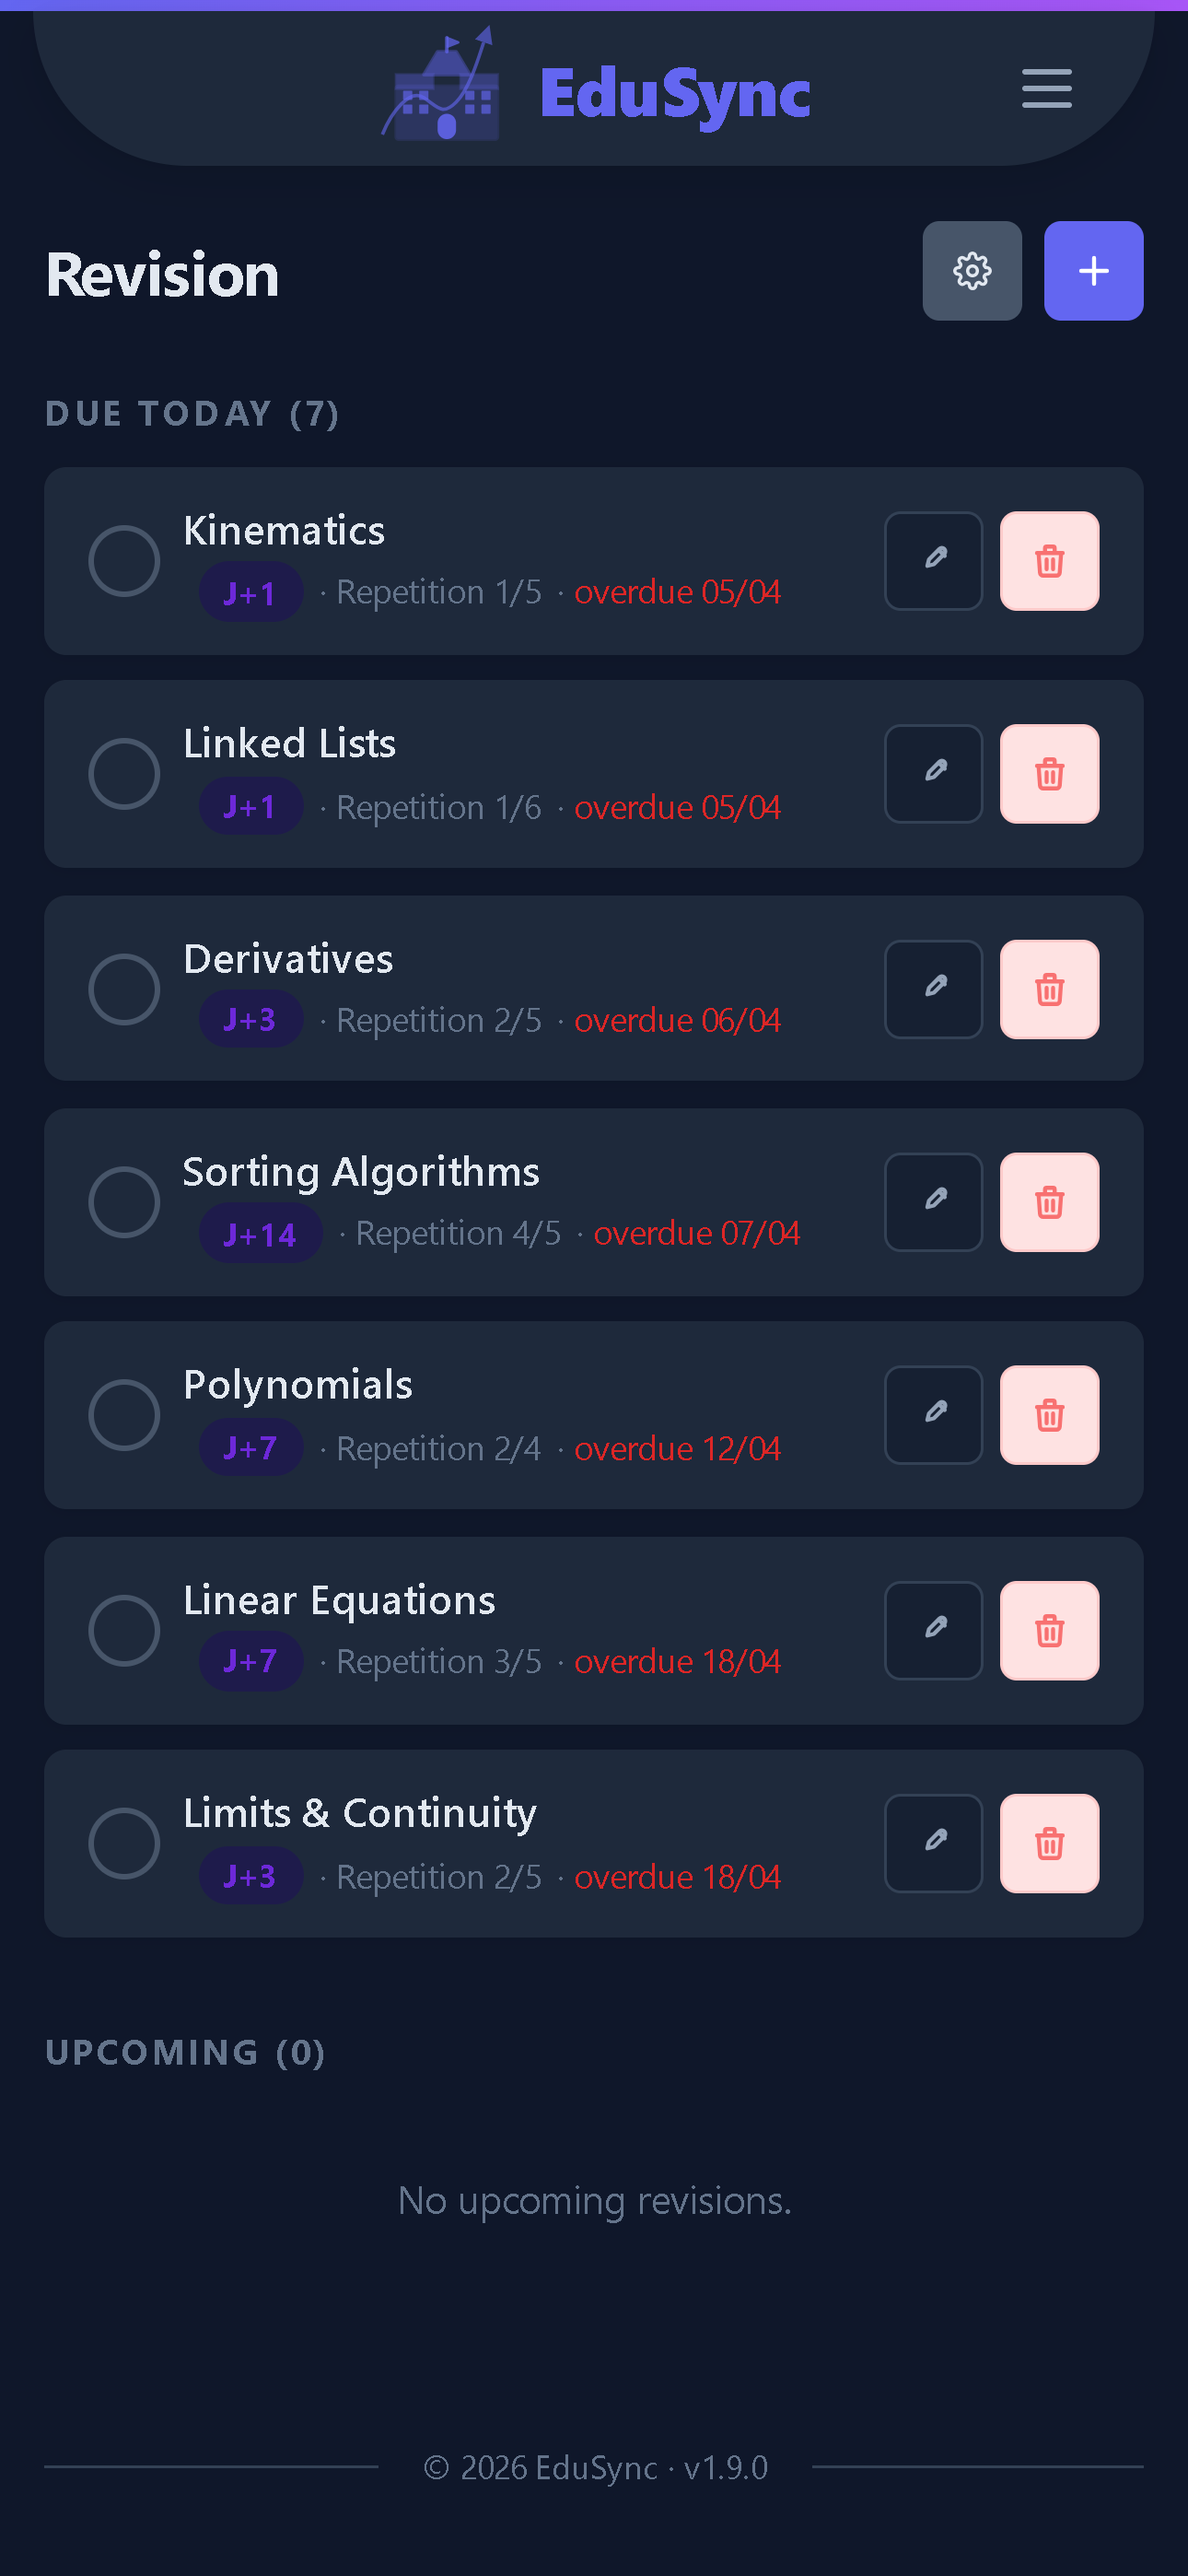
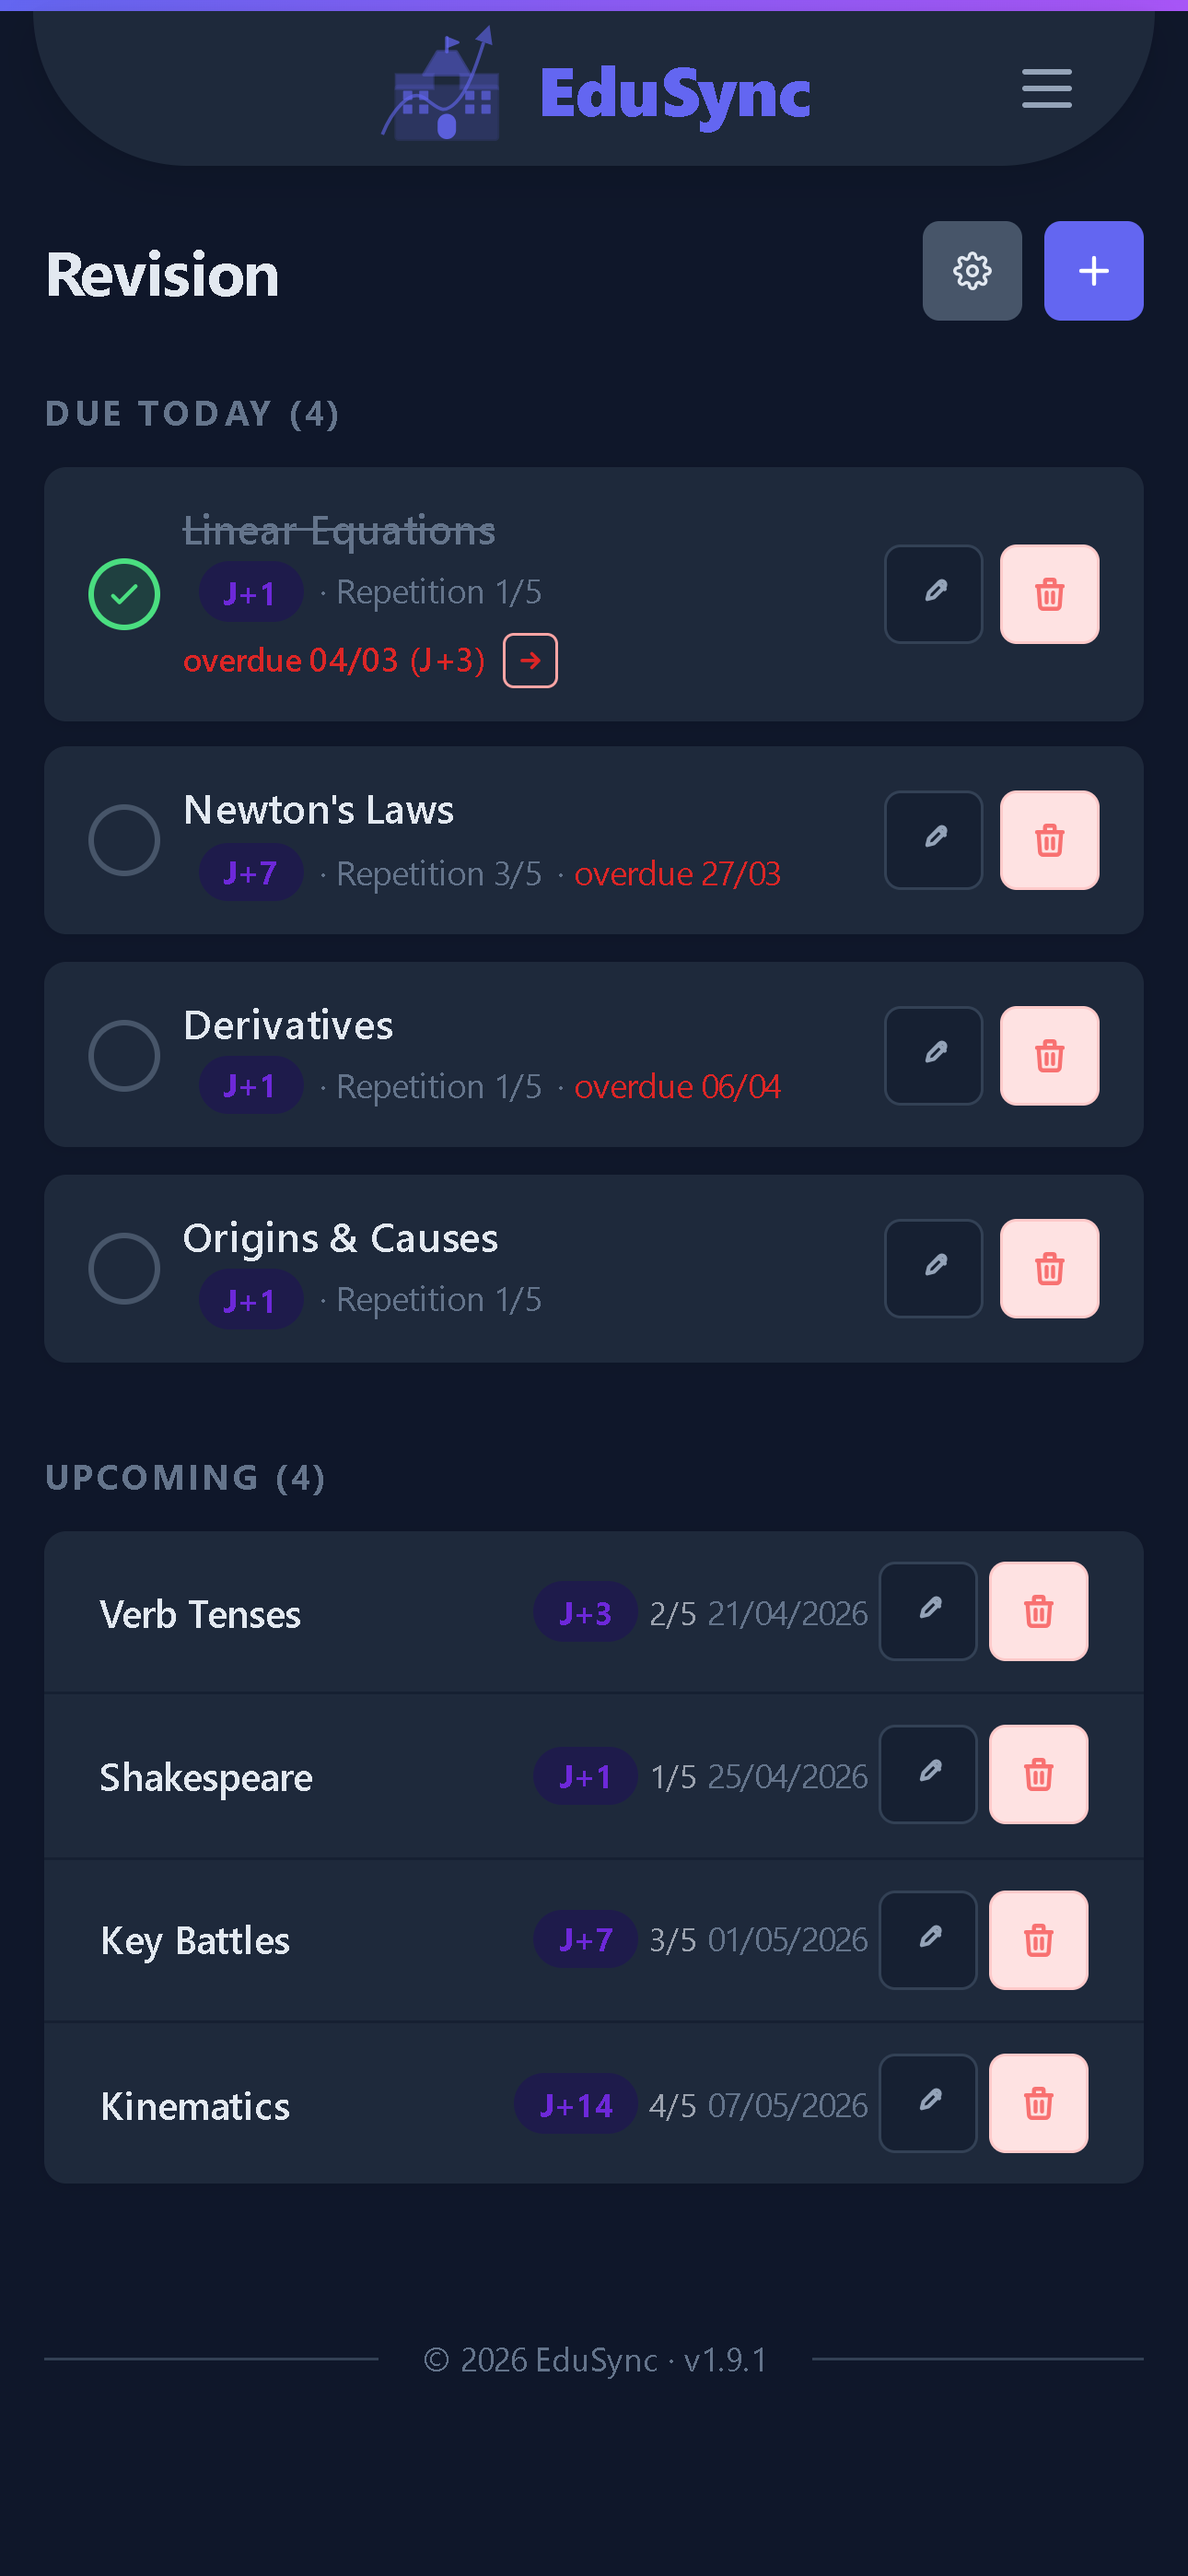
fix(revision): fix overdue tracking and add multi-step same-day advance
Fix two overdue bugs and add same-day multi-step advancement:

- Next revision dates now computed from start_date (absolute intervals)
  instead of CURDATE() — overdue items stay overdue after validation
  and subsequent steps are also correctly flagged as overdue
- Uncheck now restores the original due date (start_date + interval)
  instead of resetting to today
- markDone clears reviewed_today so the advanced step appears as a
  fresh unchecked item
- Add "→" button on reviewed cards when the next step is also overdue,
  allowing same-day multi-step advancement without losing undo on the
  current step

diff --git a/src/Views/revision/index.php b/src/Views/revision/index.php
@@ -5,6 +5,7 @@ $iconDel       = '<svg xmlns="http://www.w3.org/2000/svg" width="14" height="14"
 $iconEdit      = '<svg xmlns="http://www.w3.org/2000/svg" width="14" height="14" fill="none" viewBox="0 0 24 24" stroke="currentColor" stroke-width="2.5"><path stroke-linecap="round" stroke-linejoin="round" d="M15.232 5.232l3.536 3.536M9 11l6.5-6.5a2.121 2.121 0 013 3L12 14l-4 1 1-4z"/></svg>';
 $iconCheckFill = '<svg xmlns="http://www.w3.org/2000/svg" width="14" height="14" fill="none" viewBox="0 0 24 24" stroke="currentColor" stroke-width="2.5"><path stroke-linecap="round" stroke-linejoin="round" d="M5 13l4 4L19 7"/></svg>';
 $iconClose     = '<svg xmlns="http://www.w3.org/2000/svg" width="13" height="13" fill="none" viewBox="0 0 24 24" stroke="currentColor" stroke-width="2.5"><path stroke-linecap="round" stroke-linejoin="round" d="M6 18L18 6M6 6l12 12"/></svg>';
+$iconArrow     = '<svg xmlns="http://www.w3.org/2000/svg" width="12" height="12" fill="none" viewBox="0 0 24 24" stroke="currentColor" stroke-width="2.5"><path stroke-linecap="round" stroke-linejoin="round" d="M13 7l5 5-5 5M6 12h12"/></svg>';
 $iconChapter   = '<svg xmlns="http://www.w3.org/2000/svg" width="12" height="12" fill="none" viewBox="0 0 24 24" stroke="currentColor" stroke-width="2"><path stroke-linecap="round" stroke-linejoin="round" d="M12 6.253v13m0-13C10.832 5.477 9.246 5 7.5 5S4.168 5.477 3 6.253v13C4.168 18.477 5.754 18 7.5 18s3.332.477 4.5 1.253m0-13C13.168 5.477 14.754 5 16.5 5c1.747 0 3.332.477 4.5 1.253v13C19.832 18.477 18.247 18 16.5 18c-1.746 0-3.332.477-4.5 1.253"/></svg>';
 $iconDocument  = '<svg xmlns="http://www.w3.org/2000/svg" width="12" height="12" fill="none" viewBox="0 0 24 24" stroke="currentColor" stroke-width="2"><path stroke-linecap="round" stroke-linejoin="round" d="M9 12h6m-6 4h6m2 5H7a2 2 0 01-2-2V5a2 2 0 012-2h5.586a1 1 0 01.707.293l5.414 5.414a1 1 0 01.293.707V19a2 2 0 01-2 2z"/></svg>';
 
@@ -37,6 +38,8 @@ $presetsJson   = json_encode($presets);
     .badge-interval { background: var(--purple-tint-2); color: #6d28d9; }
     .badge-type { background: var(--bg-subtle); color: var(--text-muted); }
 
+    .btn-advance { display: inline-flex; align-items: center; justify-content: center; width: 20px; height: 20px; border-radius: 4px; border: 1px solid #fca5a5; background: transparent; color: #dc2626; cursor: pointer; vertical-align: middle; padding: 0; flex-shrink: 0; }
+    .btn-advance:hover { background: #fee2e2; }
     .upcoming-list { background: var(--surface); border-radius: 8px; box-shadow: 0 1px 6px rgba(0,0,0,.07); overflow: hidden; }
     .upcoming-row { display: flex; align-items: center; gap: .75rem; padding: .7rem 1.25rem; border-bottom: 1px solid var(--bg-subtle); font-size: .875rem; }
     .upcoming-row:last-child { border-bottom: none; }
@@ -185,8 +188,16 @@ $presetsJson   = json_encode($presets);
                         <?php endif; ?>
                     </div>
                     <?php if ($isReviewed && $nextStep): ?>
-                        <div class="rev-card-next">
-                            <?= __('revision.reviewed_next') ?> <?= date('d/m/Y', strtotime($nextRevDate)) ?> (J+<?= (int)$nextStep['day'] ?>)
+                        <div class="rev-card-next" style="display:flex;align-items:center;gap:.4rem;flex-wrap:wrap;">
+                            <?php if (strtotime($nextRevDate) < strtotime($today)): ?>
+                                <span style="color:#dc2626;"><?= __('revision.overdue') ?> <?= date('d/m', strtotime($nextRevDate)) ?> (J+<?= (int)$nextStep['day'] ?>)</span>
+                                <form method="POST" action="/revision/done" style="display:inline-flex;align-items:center;">
+                                    <input type="hidden" name="id" value="<?= (int) $r['id'] ?>">
+                                    <button type="submit" class="btn-advance" title="<?= htmlspecialchars(__('revision.next_overdue'), ENT_QUOTES) ?>"><?= $iconArrow ?></button>
+                                </form>
+                            <?php else: ?>
+                                <?= __('revision.reviewed_next') ?> <?= date('d/m/Y', strtotime($nextRevDate)) ?> (J+<?= (int)$nextStep['day'] ?>)
+                            <?php endif; ?>
                         </div>
                     <?php elseif ($isReviewed && $isLast): ?>
                         <div class="rev-card-next"><?= __('revision.last_step') ?></div>

diff --git a/src/Models/RevisionSession.php b/src/Models/RevisionSession.php
@@ -89,18 +89,19 @@ class RevisionSession
         }
 
         $isChecked = ($session['reviewed_today'] === date('Y-m-d'));
+        $intervals = json_decode($session['intervals'], true) ?: self::DEFAULT_INTERVALS;
 
         if ($isChecked) {
-            // Uncheck: revert interval by one step, put back as due today
+            // Uncheck: revert to previous step, restore original due date from start_date
             $prevIndex = max(0, (int)$session['interval_index'] - 1);
+            $days      = (int)($intervals[$prevIndex]['day'] ?? 1);
             $db->prepare(
-                'UPDATE revision_sessions SET interval_index = ?, next_revision_date = CURDATE(), reviewed_today = NULL WHERE id = ? AND user_id = ?'
-            )->execute([$prevIndex, $id, $userId]);
+                'UPDATE revision_sessions SET interval_index = ?, next_revision_date = DATE_ADD(start_date, INTERVAL ? DAY), reviewed_today = NULL WHERE id = ? AND user_id = ?'
+            )->execute([$prevIndex, $days, $id, $userId]);
             return false;
         }
 
-        // Check: advance interval
-        $intervals = json_decode($session['intervals'], true) ?: self::DEFAULT_INTERVALS;
+        // Check: advance interval, next date computed from start_date (absolute intervals)
         $nextIndex = (int)$session['interval_index'] + 1;
 
         if ($nextIndex >= count($intervals)) {
@@ -109,7 +110,7 @@ class RevisionSession
         } else {
             $days = (int)($intervals[$nextIndex]['day'] ?? 1);
             $db->prepare(
-                'UPDATE revision_sessions SET interval_index = ?, next_revision_date = DATE_ADD(CURDATE(), INTERVAL ? DAY), reviewed_today = CURDATE() WHERE id = ? AND user_id = ?'
+                'UPDATE revision_sessions SET interval_index = ?, next_revision_date = DATE_ADD(start_date, INTERVAL ? DAY), reviewed_today = CURDATE() WHERE id = ? AND user_id = ?'
             )->execute([$nextIndex, $days, $id, $userId]);
         }
         return true;
@@ -148,7 +149,7 @@ class RevisionSession
             $days = (int) ($intervals[$nextIndex]['day'] ?? 1);
             $db->prepare(
                 'UPDATE revision_sessions
-                 SET interval_index = ?, next_revision_date = DATE_ADD(CURDATE(), INTERVAL ? DAY)
+                 SET interval_index = ?, next_revision_date = DATE_ADD(start_date, INTERVAL ? DAY), reviewed_today = NULL
                  WHERE id = ? AND user_id = ?'
             )->execute([$nextIndex, $days, $id, $userId]);
         }

diff --git a/src/Views/layouts/app.php b/src/Views/layouts/app.php
@@ -208,7 +208,7 @@
         <?php endif; ?>
         <?= $content ?>
     </div>
-    <footer>© 2026 EduSync · v1.9.0</footer>
+    <footer>© 2026 EduSync · v1.9.1</footer>
     <!-- Confirm modal -->
     <div id="es-modal" style="display:none;position:fixed;inset:0;background:rgba(0,0,0,.45);z-index:9999;align-items:center;justify-content:center;">
         <div class="modal-box" style="border-radius:12px;padding:1.5rem 1.75rem;max-width:380px;width:90%;box-shadow:0 8px 32px rgba(0,0,0,.18);">

diff --git a/lang/fr.php b/lang/fr.php
@@ -372,6 +372,7 @@ return [
         'repetition'      => 'Répétition %d/%d',
         'overdue'         => 'en retard',
         'reviewed_next'   => 'Révisé aujourd\'hui — Prochain :',
+        'next_overdue'    => 'L\'étape suivante est aussi en retard — cliquer pour avancer',
         'last_step'       => 'Dernière étape validée — maîtrisé',
         'stop_tracking'   => 'Arrêter le suivi de cet élément ?',
         'track_new'       => 'Suivre un nouvel élément',

diff --git a/lang/en.php b/lang/en.php
@@ -372,6 +372,7 @@ return [
         'repetition'      => 'Repetition %d/%d',
         'overdue'         => 'overdue',
         'reviewed_next'   => 'Reviewed today — Next:',
+        'next_overdue'    => 'Next step is also overdue — click to advance',
         'last_step'       => 'Last step done — marked as mastered',
         'stop_tracking'   => 'Stop tracking this item?',
         'track_new'       => 'Track a new item',

diff --git a/README.md b/README.md
@@ -1,6 +1,6 @@
 # EduSync
 
-Student management application built with PHP and MySQL — v1.9.0.
+Student management application built with PHP and MySQL — v1.9.1.
 
 ## Screenshots
 
